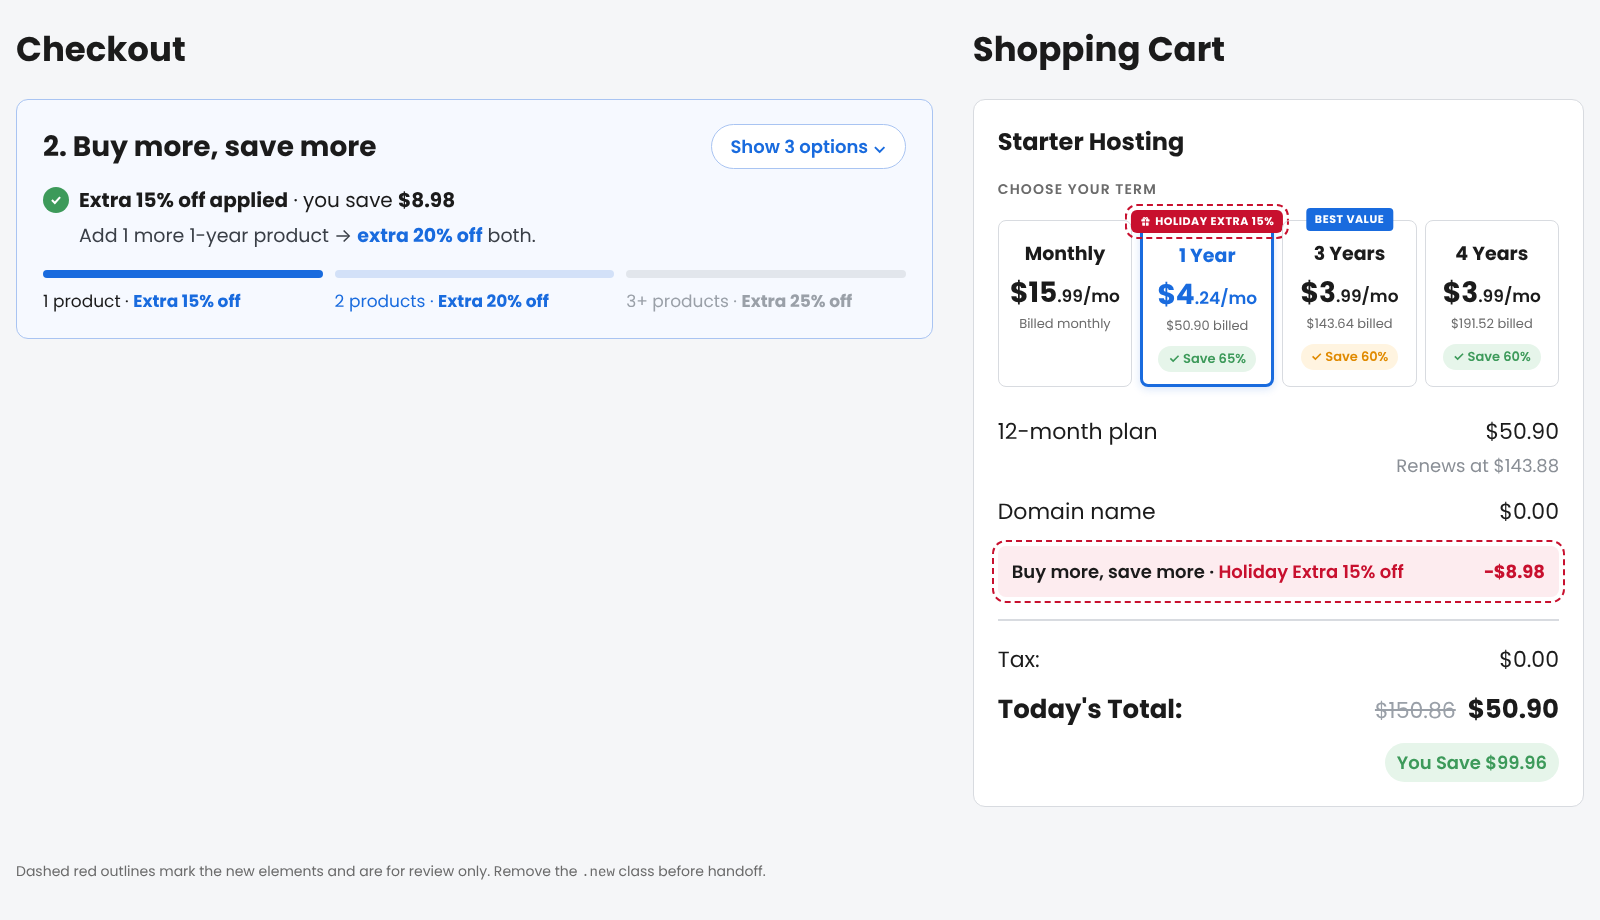
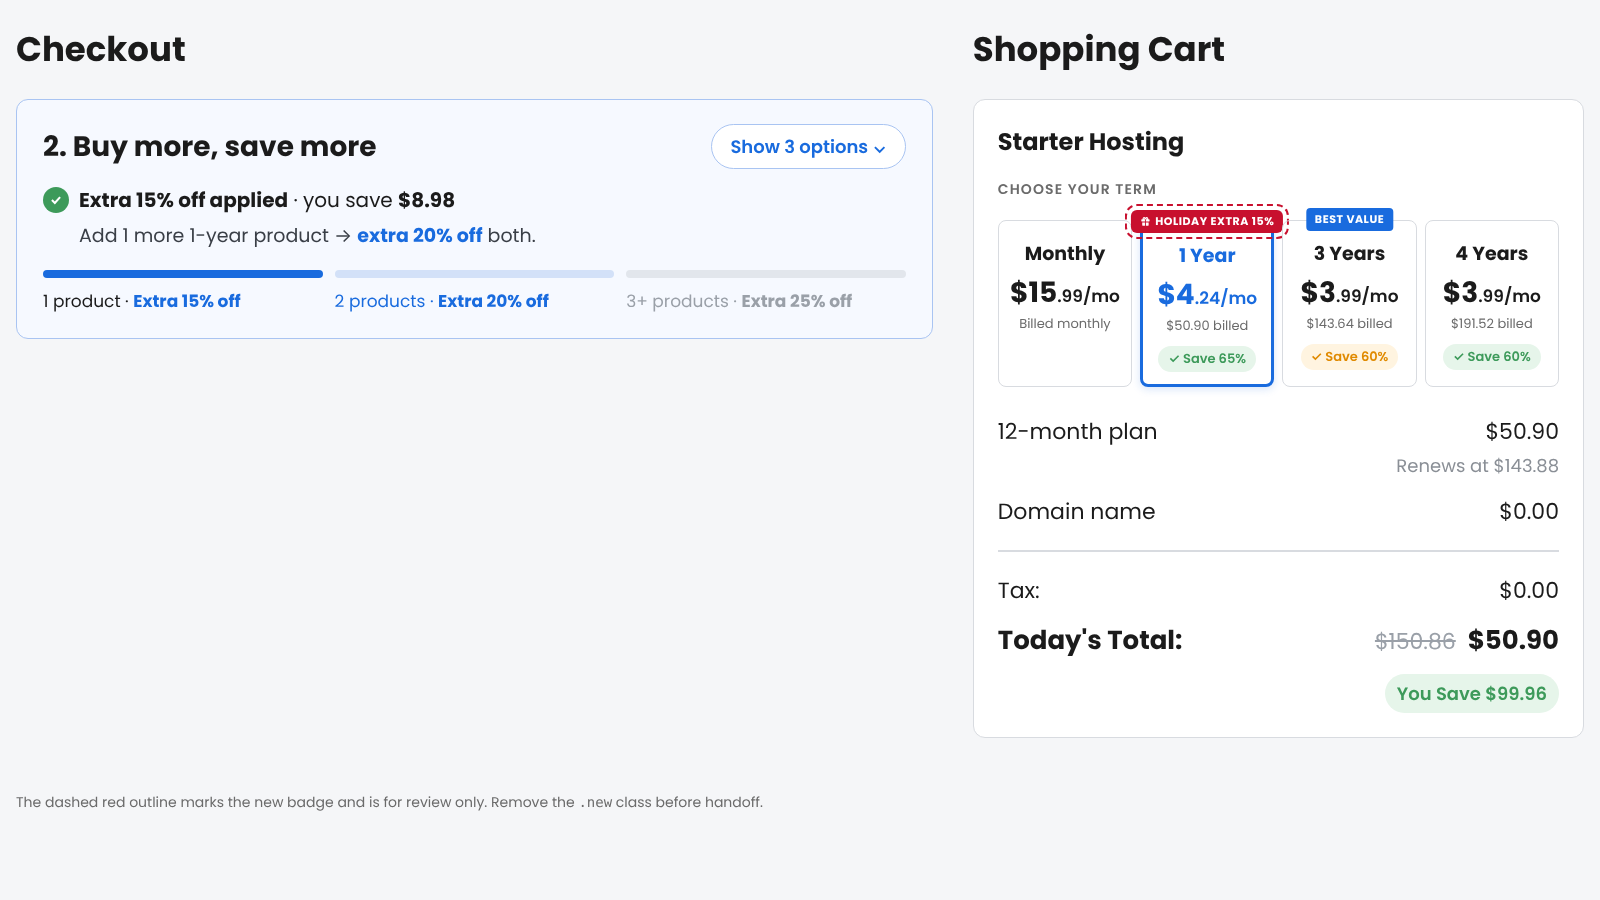
Remove holiday discount line from cart
Claude-Session: https://claude.ai/code/session_01KvHJ1PVeso71oGZyKjPtd7

diff --git a/mockups/checkout-holiday-badge.html b/mockups/checkout-holiday-badge.html
@@ -11,7 +11,7 @@
     --blue:#196bde; --blue-soft:#eaf1fd; --blue-line:#a9c4f2;
     --ink:#1b1b1b; --muted:#6b6b6b; --line:#d8dbe0; --bg:#f5f6f8;
     --green:#3d9a5a; --green-soft:#e6f5ea; --orange:#e08a00; --orange-soft:#fff4e0;
-    --holiday:#c8102e; --holiday-soft:#fdecef;
+    --holiday:#c8102e;
   }
   *{box-sizing:border-box}
   body{margin:0;background:var(--bg);font-family:Poppins,system-ui,sans-serif;color:var(--ink)}
@@ -60,17 +60,13 @@
   .row{display:flex;justify-content:space-between;align-items:baseline;font-size:22px;margin:14px 0}
   .row .r{text-align:right}
   .sub{font-size:18px;color:#8a8f96}
-  .row.disc{font-size:18px;padding:12px 14px;margin:18px 0;background:var(--holiday-soft);border-radius:8px}
-  .row.disc .k{font-weight:600}
-  .row.disc .k em{font-style:normal;color:var(--holiday)}
-  .row.disc .v{color:var(--holiday);font-weight:700}
   hr{border:0;border-top:2px solid var(--line);margin:22px 0}
   .total{font-weight:700;font-size:26px}
   .strike{color:#9aa0a8;text-decoration:line-through;font-weight:400;font-size:22px;margin-right:12px}
   .yousave{float:right;background:var(--green-soft);color:var(--green);font-weight:600;padding:6px 12px;border-radius:999px;font-size:18px}
   .new{outline:2px dashed var(--holiday);outline-offset:4px;border-radius:6px}
   .note{grid-column:1/-1;font-size:14px;color:var(--muted)}
-  @media (max-width:600px){.bars span{font-size:14px}.terms{grid-template-columns:repeat(2,1fr);row-gap:22px}.row.disc{flex-wrap:wrap;gap:6px}}
+  @media (max-width:600px){.bars span{font-size:14px}.terms{grid-template-columns:repeat(2,1fr);row-gap:22px}}
 </style>
 </head>
 <body>
@@ -133,10 +129,6 @@
 
       <div class="row"><span>12-month plan</span><span class="r">$50.90<br><span class="sub">Renews at $143.88</span></span></div>
       <div class="row"><span>Domain name</span><span>$0.00</span></div>
-      <div class="row disc new">
-        <span class="k">Buy more, save more · <em>Holiday Extra 15% off</em></span>
-        <span class="v">−$8.98</span>
-      </div>
       <hr>
       <div class="row"><span>Tax:</span><span>$0.00</span></div>
       <div class="row total"><span>Today's Total:</span><span><span class="strike">$150.86</span>$50.90</span></div>
@@ -144,7 +136,7 @@
       <div style="clear:both"></div>
     </div>
   </section>
-  <p class="note">Dashed red outlines mark the new elements and are for review only. Remove the <code>.new</code> class before handoff.</p>
+  <p class="note">The dashed red outline marks the new badge and is for review only. Remove the <code>.new</code> class before handoff.</p>
 </div>
 </body>
 </html>
